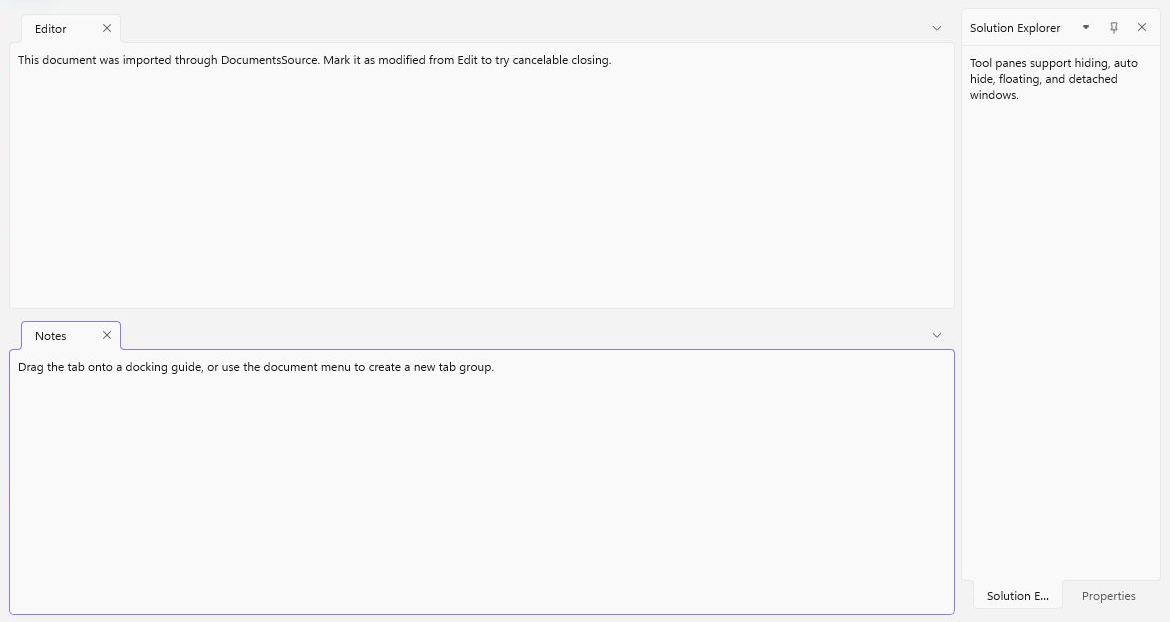
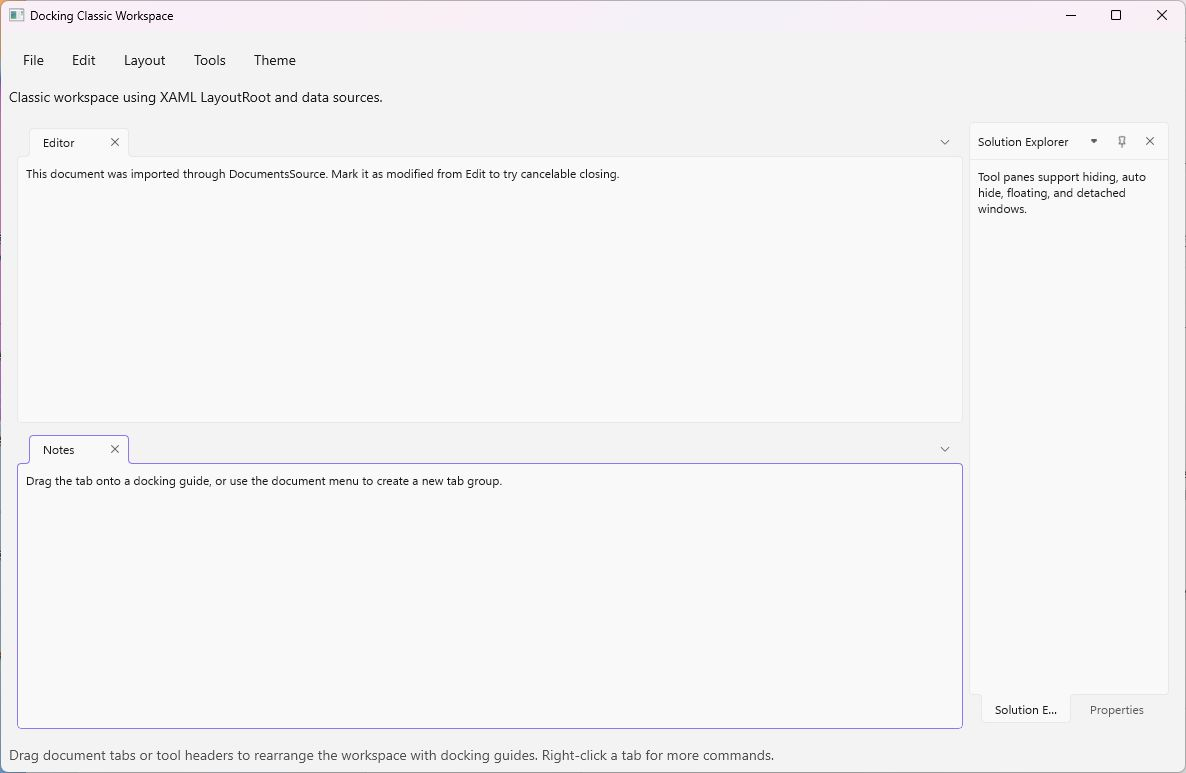
Improve README screenshots
Clarify classic and toggle workspace captions,
add more descriptive alt text, and replace the
preview images with updated versions.

diff --git a/README.md b/README.md
@@ -79,9 +79,13 @@ Build and run instructions are available in the [samples README](https://github.
 
 ## Screenshots
 
-![Classic docking in Light theme](https://raw.githubusercontent.com/qian-o/WinUI.AvalonDock/master/assets/classic-light.png)
+Classic workspace in the light theme, with horizontal document groups and docked tool panes.
 
-![Toggle docking in Dark theme](https://raw.githubusercontent.com/qian-o/WinUI.AvalonDock/master/assets/toggle-dark.png)
+![Classic docking application window in the light theme](https://raw.githubusercontent.com/qian-o/WinUI.AvalonDock/master/assets/classic-light.png)
+
+Toggle workspace in the dark theme, with six tool zones surrounding the document area.
+
+![Toggle docking application window in the dark theme](https://raw.githubusercontent.com/qian-o/WinUI.AvalonDock/master/assets/toggle-dark.png)
 
 ## Feedback
 
